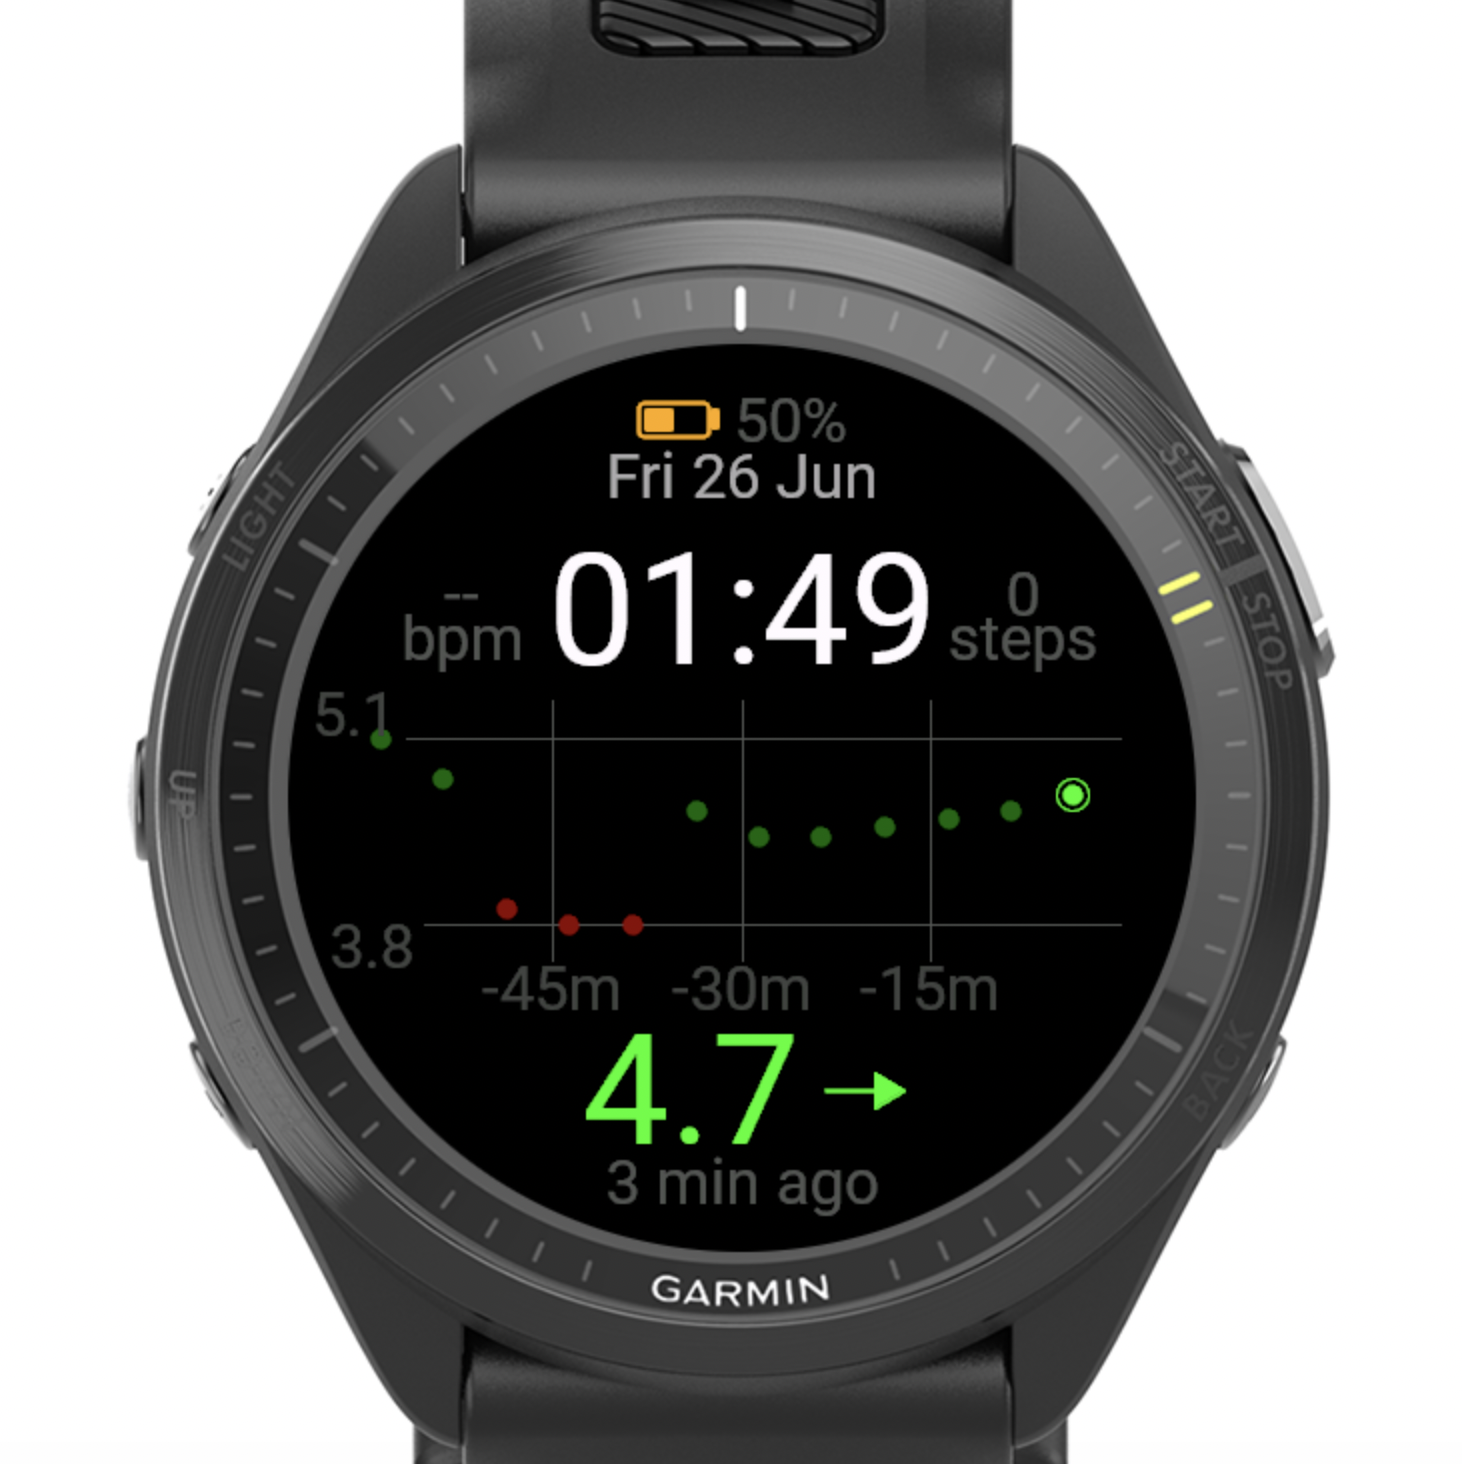
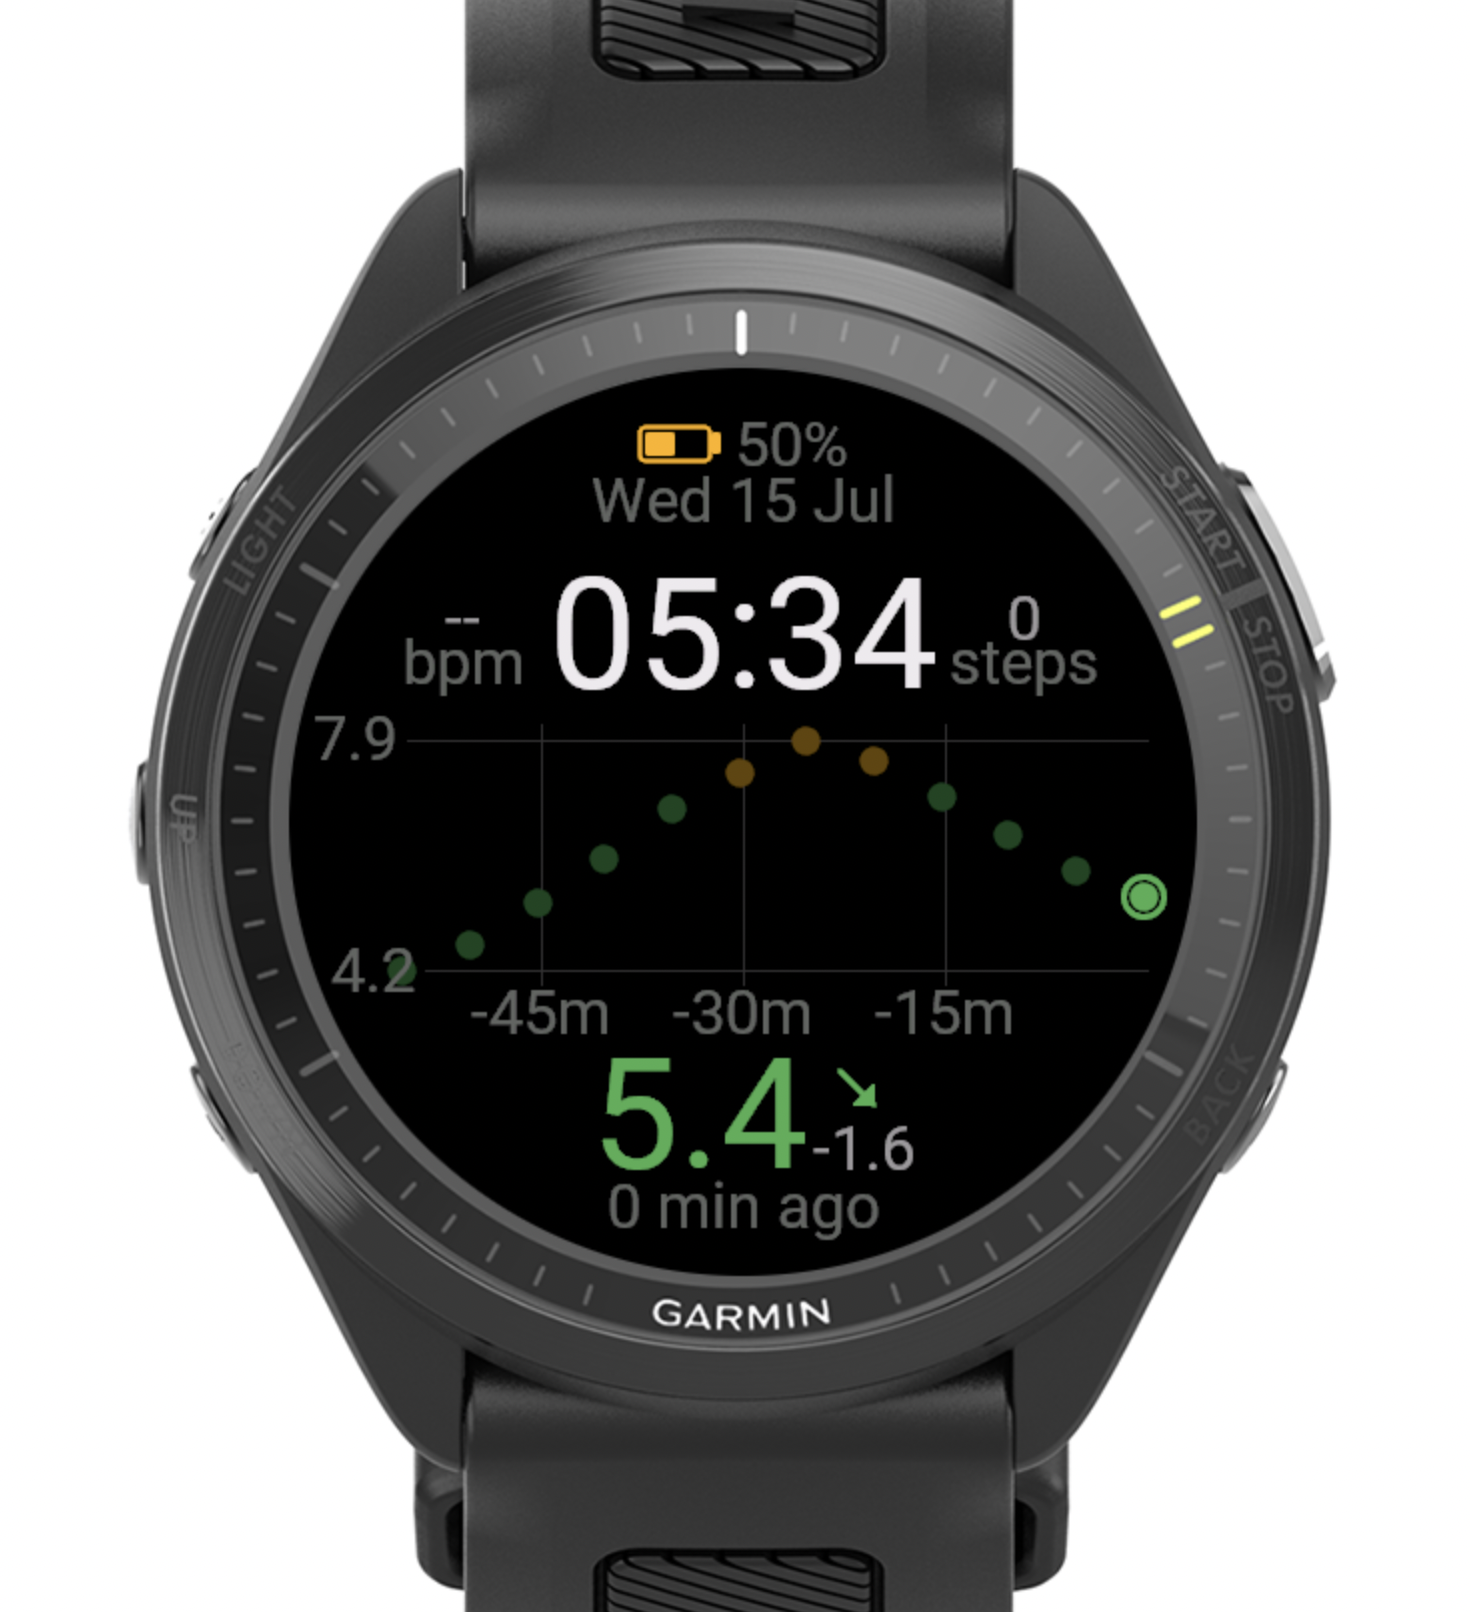
Rename app to Sattiv, add store listing draft, and polish visuals
Consistently use "Sattiv" instead of "Garmin CGM Watch Face" across
README and privacy policy to reduce trademark confusion risk. Add
Connect IQ store listing copy, bigger/clearer scatter plot dots, and
a true-green color instead of teal.

diff --git a/docs/privacy-policy.html b/docs/privacy-policy.html
@@ -3,7 +3,7 @@
 <head>
 <meta charset="utf-8">
 <meta name="viewport" content="width=device-width, initial-scale=1">
-<title>Privacy Policy — Garmin CGM Watch Face</title>
+<title>Privacy Policy — Sattiv</title>
 <style>
   body { font-family: -apple-system, BlinkMacSystemFont, "Segoe UI", Helvetica, Arial, sans-serif; max-width: 700px; margin: 40px auto; padding: 0 20px; line-height: 1.6; color: #222; }
   h1 { font-size: 1.6em; }
@@ -17,7 +17,7 @@
 <h1>Privacy Policy</h1>
 <p class="updated">Last updated: 2026-07-14</p>
 
-<p>This privacy policy covers the <strong>Garmin CGM Watch Face</strong> Connect IQ app ("the app"), an independent, community-built project. It is not affiliated with, endorsed by, or sponsored by Garmin, Dexcom, Abbott, or the Nightscout Foundation.</p>
+<p>This privacy policy covers the <strong>Sattiv</strong> Connect IQ app ("the app"), an independent, community-built project. It is not affiliated with, endorsed by, or sponsored by Garmin, Dexcom, Abbott, or the Nightscout Foundation.</p>
 
 <h2>What data the app uses</h2>
 <p>The app displays glucose readings from a <a href="https://nightscout.github.io">Nightscout</a> server that you configure yourself. To do this, you provide two pieces of information through the app's Settings (via Garmin Connect Mobile):</p>

diff --git a/docs/store-listing.md b/docs/store-listing.md
@@ -1,0 +1,33 @@
+# Connect IQ Store Listing — Sattiv
+
+Draft copy to paste into the developer portal. Adjust freely.
+
+## App name
+Sattiv
+
+## Short description (~80 char card summary)
+Real-time CGM glucose, trend & history from your own Nightscout, on your watch.
+
+## Full description
+
+Sattiv brings your continuous glucose monitor readings to your wrist, pulled directly from your own self-hosted Nightscout instance — no phone app required once configured.
+
+**Features:**
+- Real-time glucose value in mmol/L, color-coded — green (in range), amber (high), red (low)
+- Trend arrow showing rate of change (flat, rising, falling, rapid rise/fall)
+- Delta vs. 15 minutes ago
+- 60-minute glucose history plot
+- Time, date, heart rate, step count, and battery — all in one glanceable face
+- Configurable Nightscout URL and API secret via Garmin Connect app Settings — your credentials never leave your device except to reach your own server
+
+**Setup:** After installing, open this watch face's Settings in Garmin Connect Mobile and enter your Nightscout URL and API secret. Data refreshes automatically in the background every 5 minutes.
+
+---
+
+**Disclaimer:** Sattiv is an independent, community-built project and is not affiliated with, endorsed by, or sponsored by Garmin, Dexcom, Abbott, or the Nightscout Foundation. It is not a medical device and is not a substitute for your primary CGM receiver or app — always confirm readings on your CGM's official display before making any treatment decision. Displayed data may be delayed or unavailable due to network, server, or sensor issues. Use at your own risk. Full disclaimer and privacy policy: https://bolattleubayev.github.io/garmin-nightscout-integration/privacy-policy.html
+
+## Category
+Watch Face
+
+## Privacy Policy URL
+https://bolattleubayev.github.io/garmin-nightscout-integration/privacy-policy.html

diff --git a/README.md b/README.md
@@ -1,4 +1,4 @@
-# Garmin CGM Watch Face
+# Sattiv
 
 A Garmin Connect IQ watch face for the **Forerunner 970** that displays real-time continuous glucose monitor (CGM) readings from a Nightscout server alongside time, date, heart rate, steps, and battery.
 